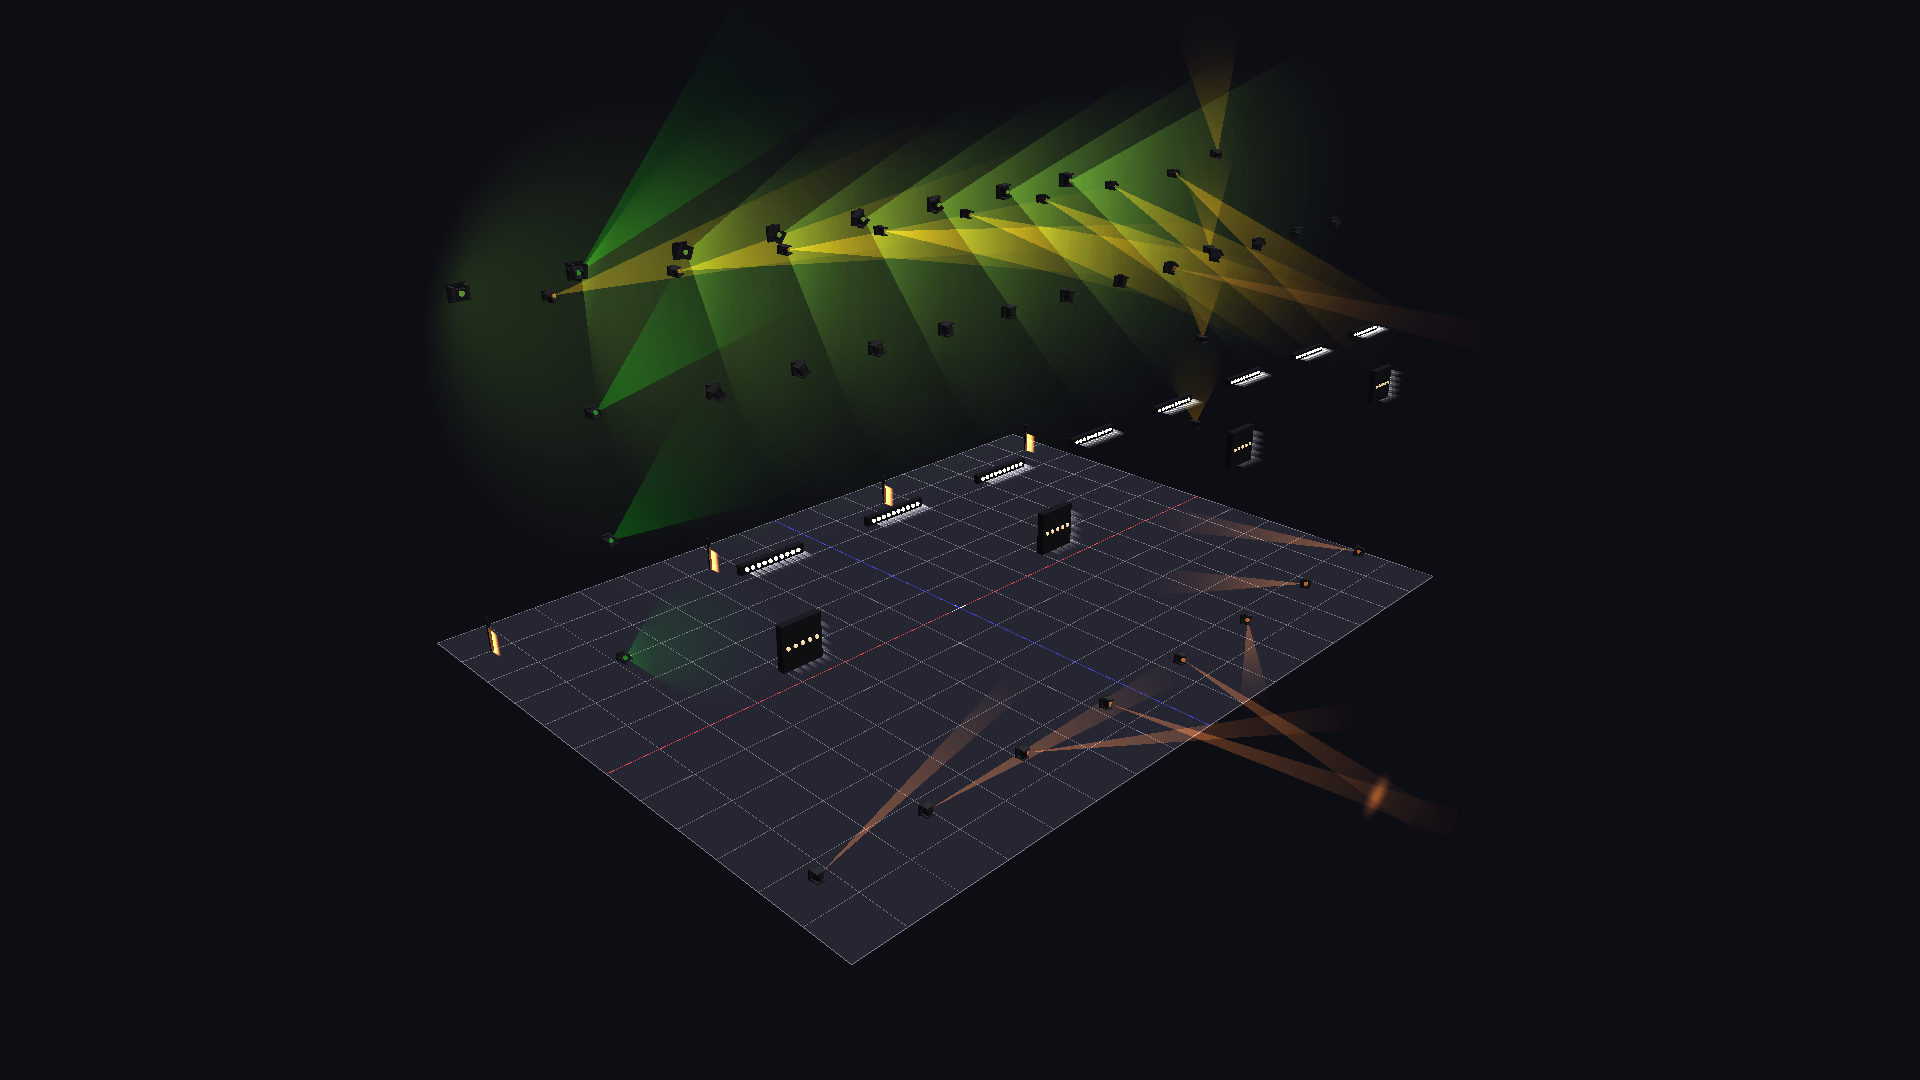
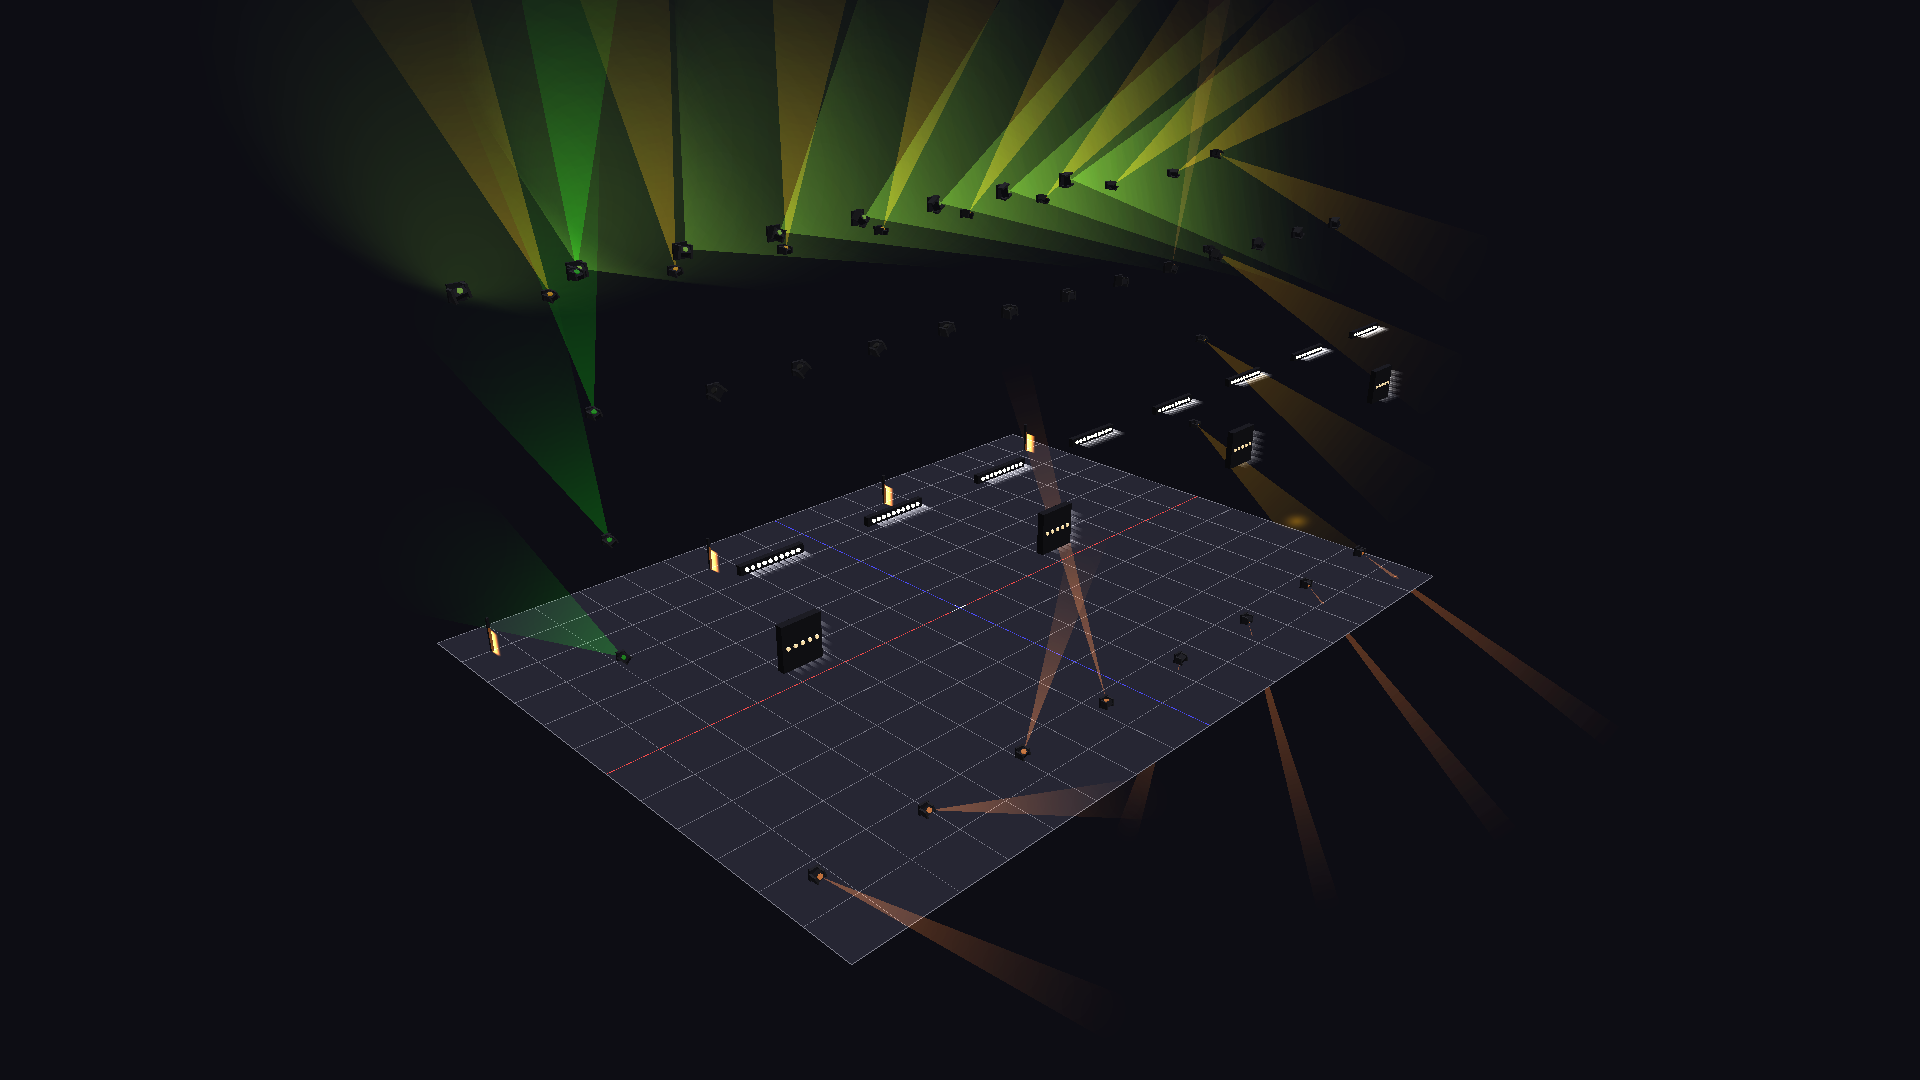
feat(demos): calmer festival movement + reproducible --calm-movement option

diff --git a/demos/generate_shows.py b/demos/generate_shows.py
@@ -31,6 +31,7 @@ import os
 import random
 import shutil
 import sys
+from fractions import Fraction
 
 import numpy as np
 
@@ -151,7 +152,34 @@ def load_structure_parts(config_path: str, show_name: str = None, slice_spec: st
     return parts, label
 
 
-def generate_for_rig(rig_name: str, audio_path: str, parts, audio_basename: str) -> Configuration:
+# Busy movement shapes -> a smooth stand-in when --calm-movement is on.
+_CALM_SHAPE = {"figure_8": "circle", "lissajous": "circle"}
+
+
+def _speed_to_str(mult: float) -> str:
+    """Render a speed multiplier back to a "n" / "n/d" effect_speed string."""
+    f = Fraction(mult).limit_denominator(16)
+    return str(f.numerator) if f.denominator == 1 else f"{f.numerator}/{f.denominator}"
+
+
+def calm_movement(lanes, speed_factor: float = 0.5):
+    """Tone down autogen movement: slow effect_speed and smooth busy shapes.
+
+    Halving the speed on top of the global 4x movement slowdown, plus swapping
+    figure-8 / lissajous for a plain circle, keeps dense rigs (e.g. the festival
+    front truss of 8 washes) from reading as frantic.
+    """
+    from effects.timing import parse_speed
+    for lane in lanes:
+        for lb in lane.light_blocks:
+            for mb in lb.movement_blocks:
+                mb.effect_speed = _speed_to_str(parse_speed(str(mb.effect_speed)) * speed_factor)
+                mb.effect_type = _CALM_SHAPE.get(mb.effect_type, mb.effect_type)
+    return lanes
+
+
+def generate_for_rig(rig_name: str, audio_path: str, parts, audio_basename: str,
+                     calm: bool = False) -> Configuration:
     """Load a rig, autogenerate a show against the clip using ``parts``, return the config."""
     cfg = Configuration.load(os.path.join(RIGS_DIR, f"{rig_name}.yaml"))
 
@@ -165,6 +193,8 @@ def generate_for_rig(rig_name: str, audio_path: str, parts, audio_basename: str)
     np.random.seed(SEED)
 
     lanes, _report = generate_show(audio_path, structure, cfg)
+    if calm:
+        calm_movement(lanes)
 
     show = Show(
         name="Demo",
@@ -186,6 +216,8 @@ def main(argv=None):
                         help="Show name within --structure-from (default: first show).")
     parser.add_argument("--structure-slice", default=None,
                         help="START:END part-index range of --structure-show to keep (e.g. 4:6 for a short excerpt).")
+    parser.add_argument("--calm-movement", action="store_true",
+                        help="Slow movement effect_speed 2x and smooth figure-8/lissajous to circle (dense rigs).")
     parser.add_argument("--out", default=OUT_DIR, help="Output directory (default: demos/shows).")
     args = parser.parse_args(argv)
 
@@ -215,7 +247,7 @@ def main(argv=None):
 
     print(f"Clip: {os.path.basename(audio_path)}  ({duration:.1f}s, {bpm:g} BPM)")
     for rig_name in rigs:
-        cfg = generate_for_rig(rig_name, audio_path, parts, os.path.basename(audio_path))
+        cfg = generate_for_rig(rig_name, audio_path, parts, os.path.basename(audio_path), calm=args.calm_movement)
         out = os.path.join(args.out, f"{rig_name}.yaml")
         cfg.save(out)
         show = cfg.shows["Demo"]